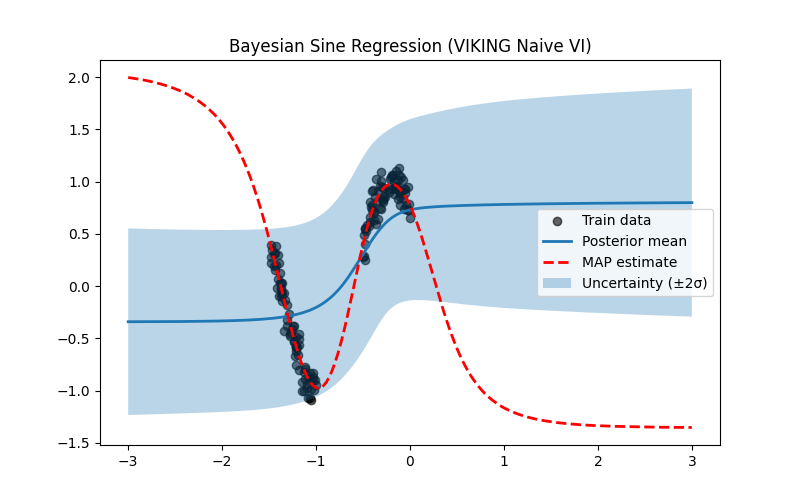
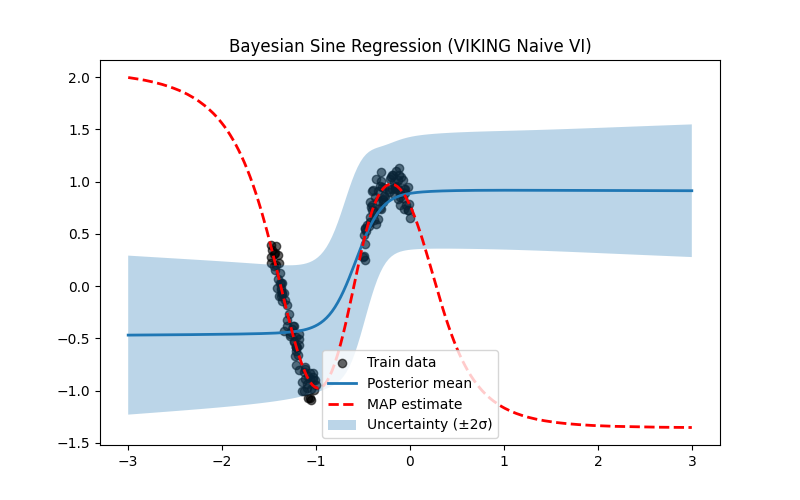
changed jacobian to jacobian loss for the GGN version

Changed region(s): [[0.1562, 0.36, 0.9062, 0.87], [0.4688, 0.18, 0.875, 0.3]]

diff --git a/src/sampling.py b/src/sampling.py
@@ -9,12 +9,26 @@ from src.utils import estimate_sigma, vectorize_nn
 from src.data.sinedata import generate_data
 from src.losses import sse_loss
 
+def compute_J(params_vec, model_fn, x_train, y_train):
+    """
+    Compute per-sample Jacobian of the loss wrt parameters.
+    J has shape (N, D).
+    """
+    def per_sample_loss(p, x, y):
+        y_pred = model_fn(p, x)
+        return jnp.square(y_pred - y).sum()  # SSE per sample
+    
+    # Vectorize over data points
+    per_sample_grad = jax.vmap(jax.grad(per_sample_loss), in_axes=(None, 0, 0))
+    J = per_sample_grad(params_vec, x_train, y_train)  # (N, D)
+    return J
+
 #----------------------------------------------------------
 # First method: Using GGN approximation
 #----------------------------------------------------------
 def calculate_UUt(model_fn, params_vec, x_train, y_train):
     model_fn_lmbd = lambda p: jnp.squeeze(model_fn(p, x_train))
-    J = jax.jacfwd(model_fn_lmbd)(params_vec)
+    J = compute_J(params_vec, model_fn, x_train, y_train)  # (N, D)
     sigma2_est = estimate_sigma(params_vec, model_fn_lmbd, y_train)
 
     GGN = (1.0 / sigma2_est) * (J.T @ J)
@@ -28,8 +42,7 @@ def calculate_UUt(model_fn, params_vec, x_train, y_train):
 
 def calculate_UUt_svd(model_fn, params_vec, x_train, y_train, rtol=1e-4):
     # Jacobian: shape (N, D)
-    model_fn_lmbd = lambda p: jnp.squeeze(model_fn(p, x_train))
-    J = jax.jacfwd(model_fn_lmbd)(params_vec)
+    J = compute_J(params_vec, model_fn, x_train, y_train)  # (N, D)
 
     # Full SVD (J = U Σ V^T)
     U, S, VT = jnp.linalg.svd(J, full_matrices=False)  # VT: (D, D)
@@ -44,7 +57,6 @@ def calculate_UUt_svd(model_fn, params_vec, x_train, y_train, rtol=1e-4):
     # Projection onto kernel subspace
     UUt = V_null @ V_null.T
     return UUt
-
 
 def sample_theta(key, num_samples, UUt, theta_hat, sigma_ker, sigma_im):
     D = theta_hat.shape[0]
@@ -63,20 +75,6 @@ def sample_theta(key, num_samples, UUt, theta_hat, sigma_ker, sigma_im):
 #----------------------------------------------------------
 # Second method: Using Jacobians and solving a system
 #----------------------------------------------------------
-def compute_J(params_vec, model_fn, x_train, y_train):
-    """
-    Compute per-sample Jacobian of the loss wrt parameters.
-    J has shape (N, D).
-    """
-    def per_sample_loss(p, x, y):
-        y_pred = model_fn(p, x)
-        return jnp.square(y_pred - y).sum()  # SSE per sample
-    
-    # Vectorize over data points
-    per_sample_grad = jax.vmap(jax.grad(per_sample_loss), in_axes=(None, 0, 0))
-    J = per_sample_grad(params_vec, x_train, y_train)  # (N, D)
-    return J
-
 def project_to_kernel(J, eps):
     """
     Project eps onto ker(J) using Eq. (15):
